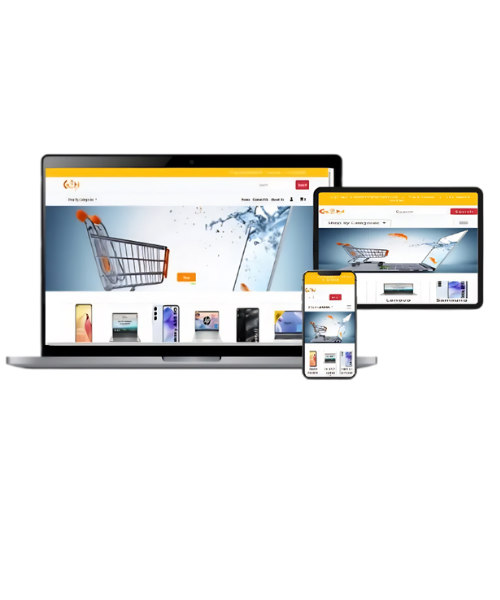
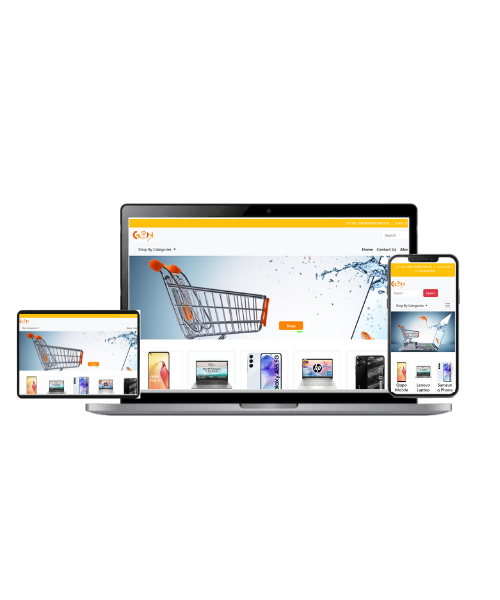
dfsger

Changed region(s): [[0.0, 0.24, 0.99, 0.72]]

diff --git a/index.php b/index.php
@@ -486,7 +486,7 @@
                                     <div class="row g-4">
                                         <div class="col-md-6" style="min-height: 350px">
                                             <div class="position-relative h-100">
-                                                <img class="position-absolute img-fluid w-100 h-100" src="img/project-1.jpg" style="object-fit: cover" alt="Seller Sathi Project" />
+                                                <img class="position-absolute img-fluid w-100 h-100" src="img/project/sellersathi-w.png" style="object-fit: cover" alt="Seller Sathi Project" />
                                             </div>
                                         </div>
                                         <div class="col-md-6">
@@ -513,7 +513,7 @@
                                     <div class="row g-4">
                                         <div class="col-md-6" style="min-height: 350px">
                                             <div class="position-relative h-100">
-                                                <img class="position-absolute img-fluid w-100 h-100" src="img/project-2.jpg" style="object-fit: cover" alt="Arjun G-Tech Project" />
+                                                <img class="position-absolute img-fluid w-100 h-100" src="img/project/arjungtech.png" style="object-fit: cover" alt="Arjun G-Tech Project" />
                                             </div>
                                         </div>
                                         <div class="col-md-6">
@@ -567,7 +567,7 @@
                                     <div class="row g-4">
                                         <div class="col-md-6" style="min-height: 350px">
                                             <div class="position-relative h-100">
-                                                <img class="position-absolute img-fluid w-100 h-100" src="img/project-4.jpg" style="object-fit: cover" alt="Professional Website Design" />
+                                                <img class="position-absolute img-fluid w-100 h-100" src="img/project/all-website.png" style="object-fit: cover" alt="Professional Website Design" />
                                             </div>
                                         </div>
                                         <div class="col-md-6">
